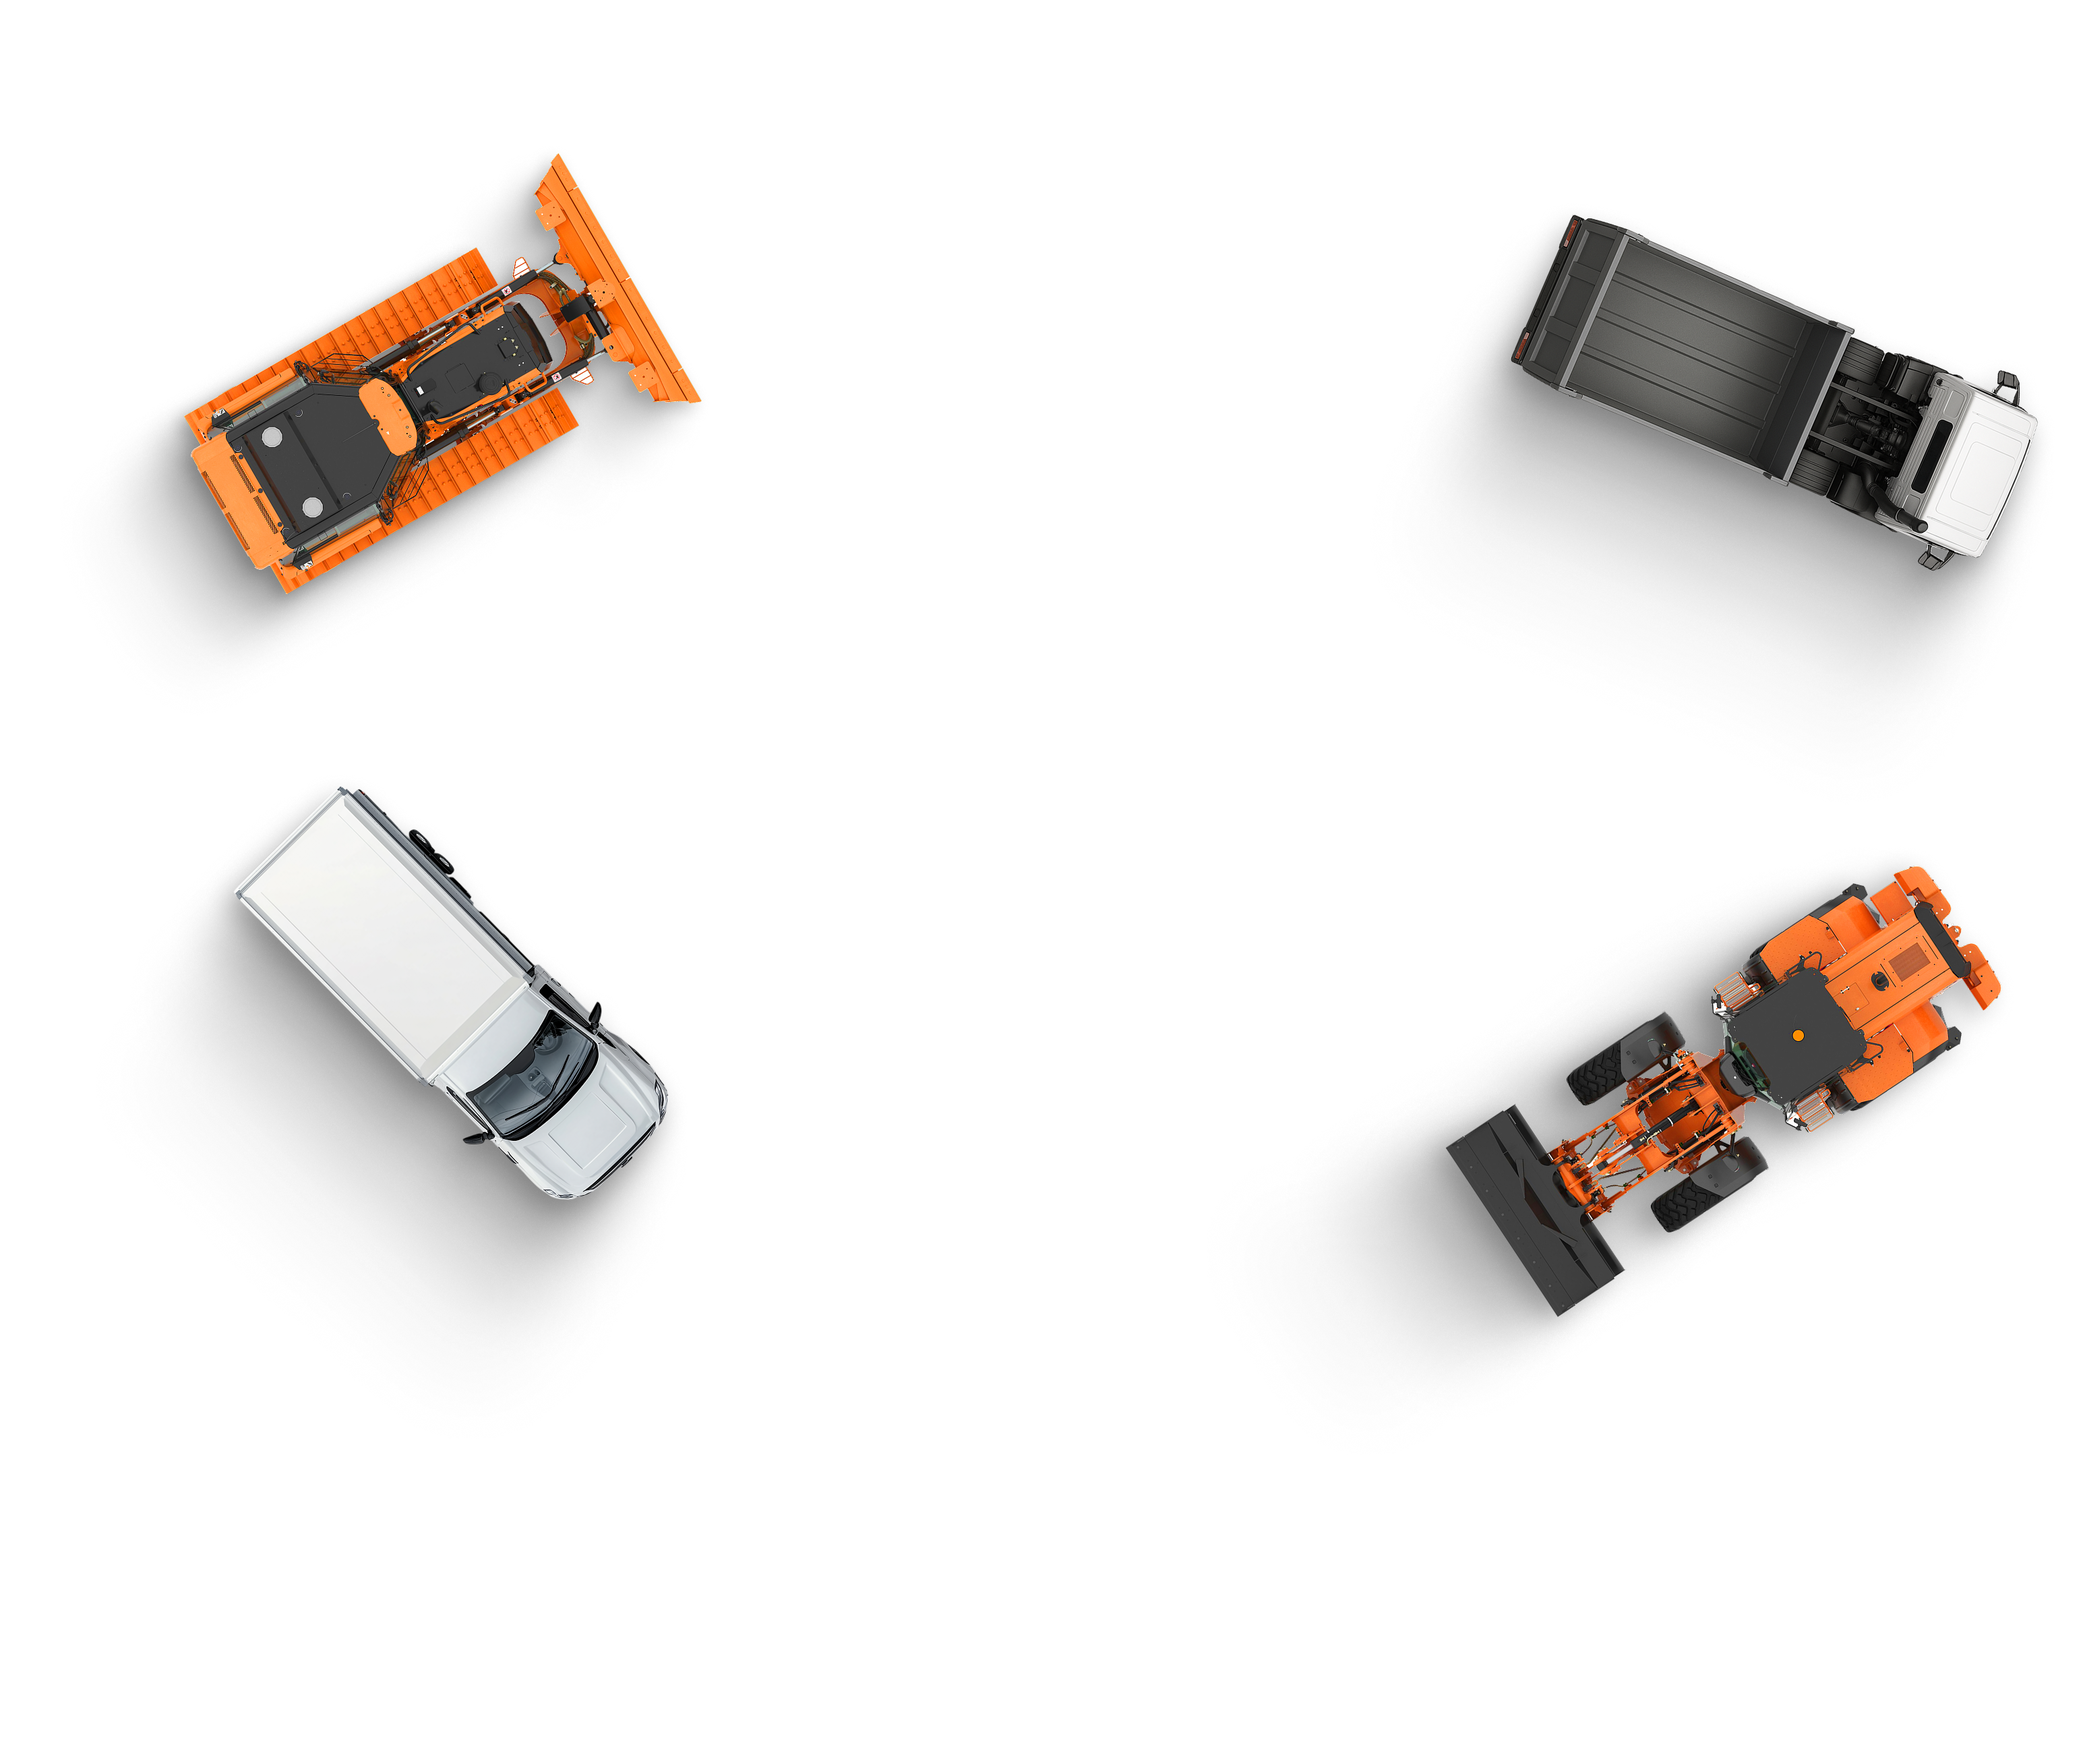
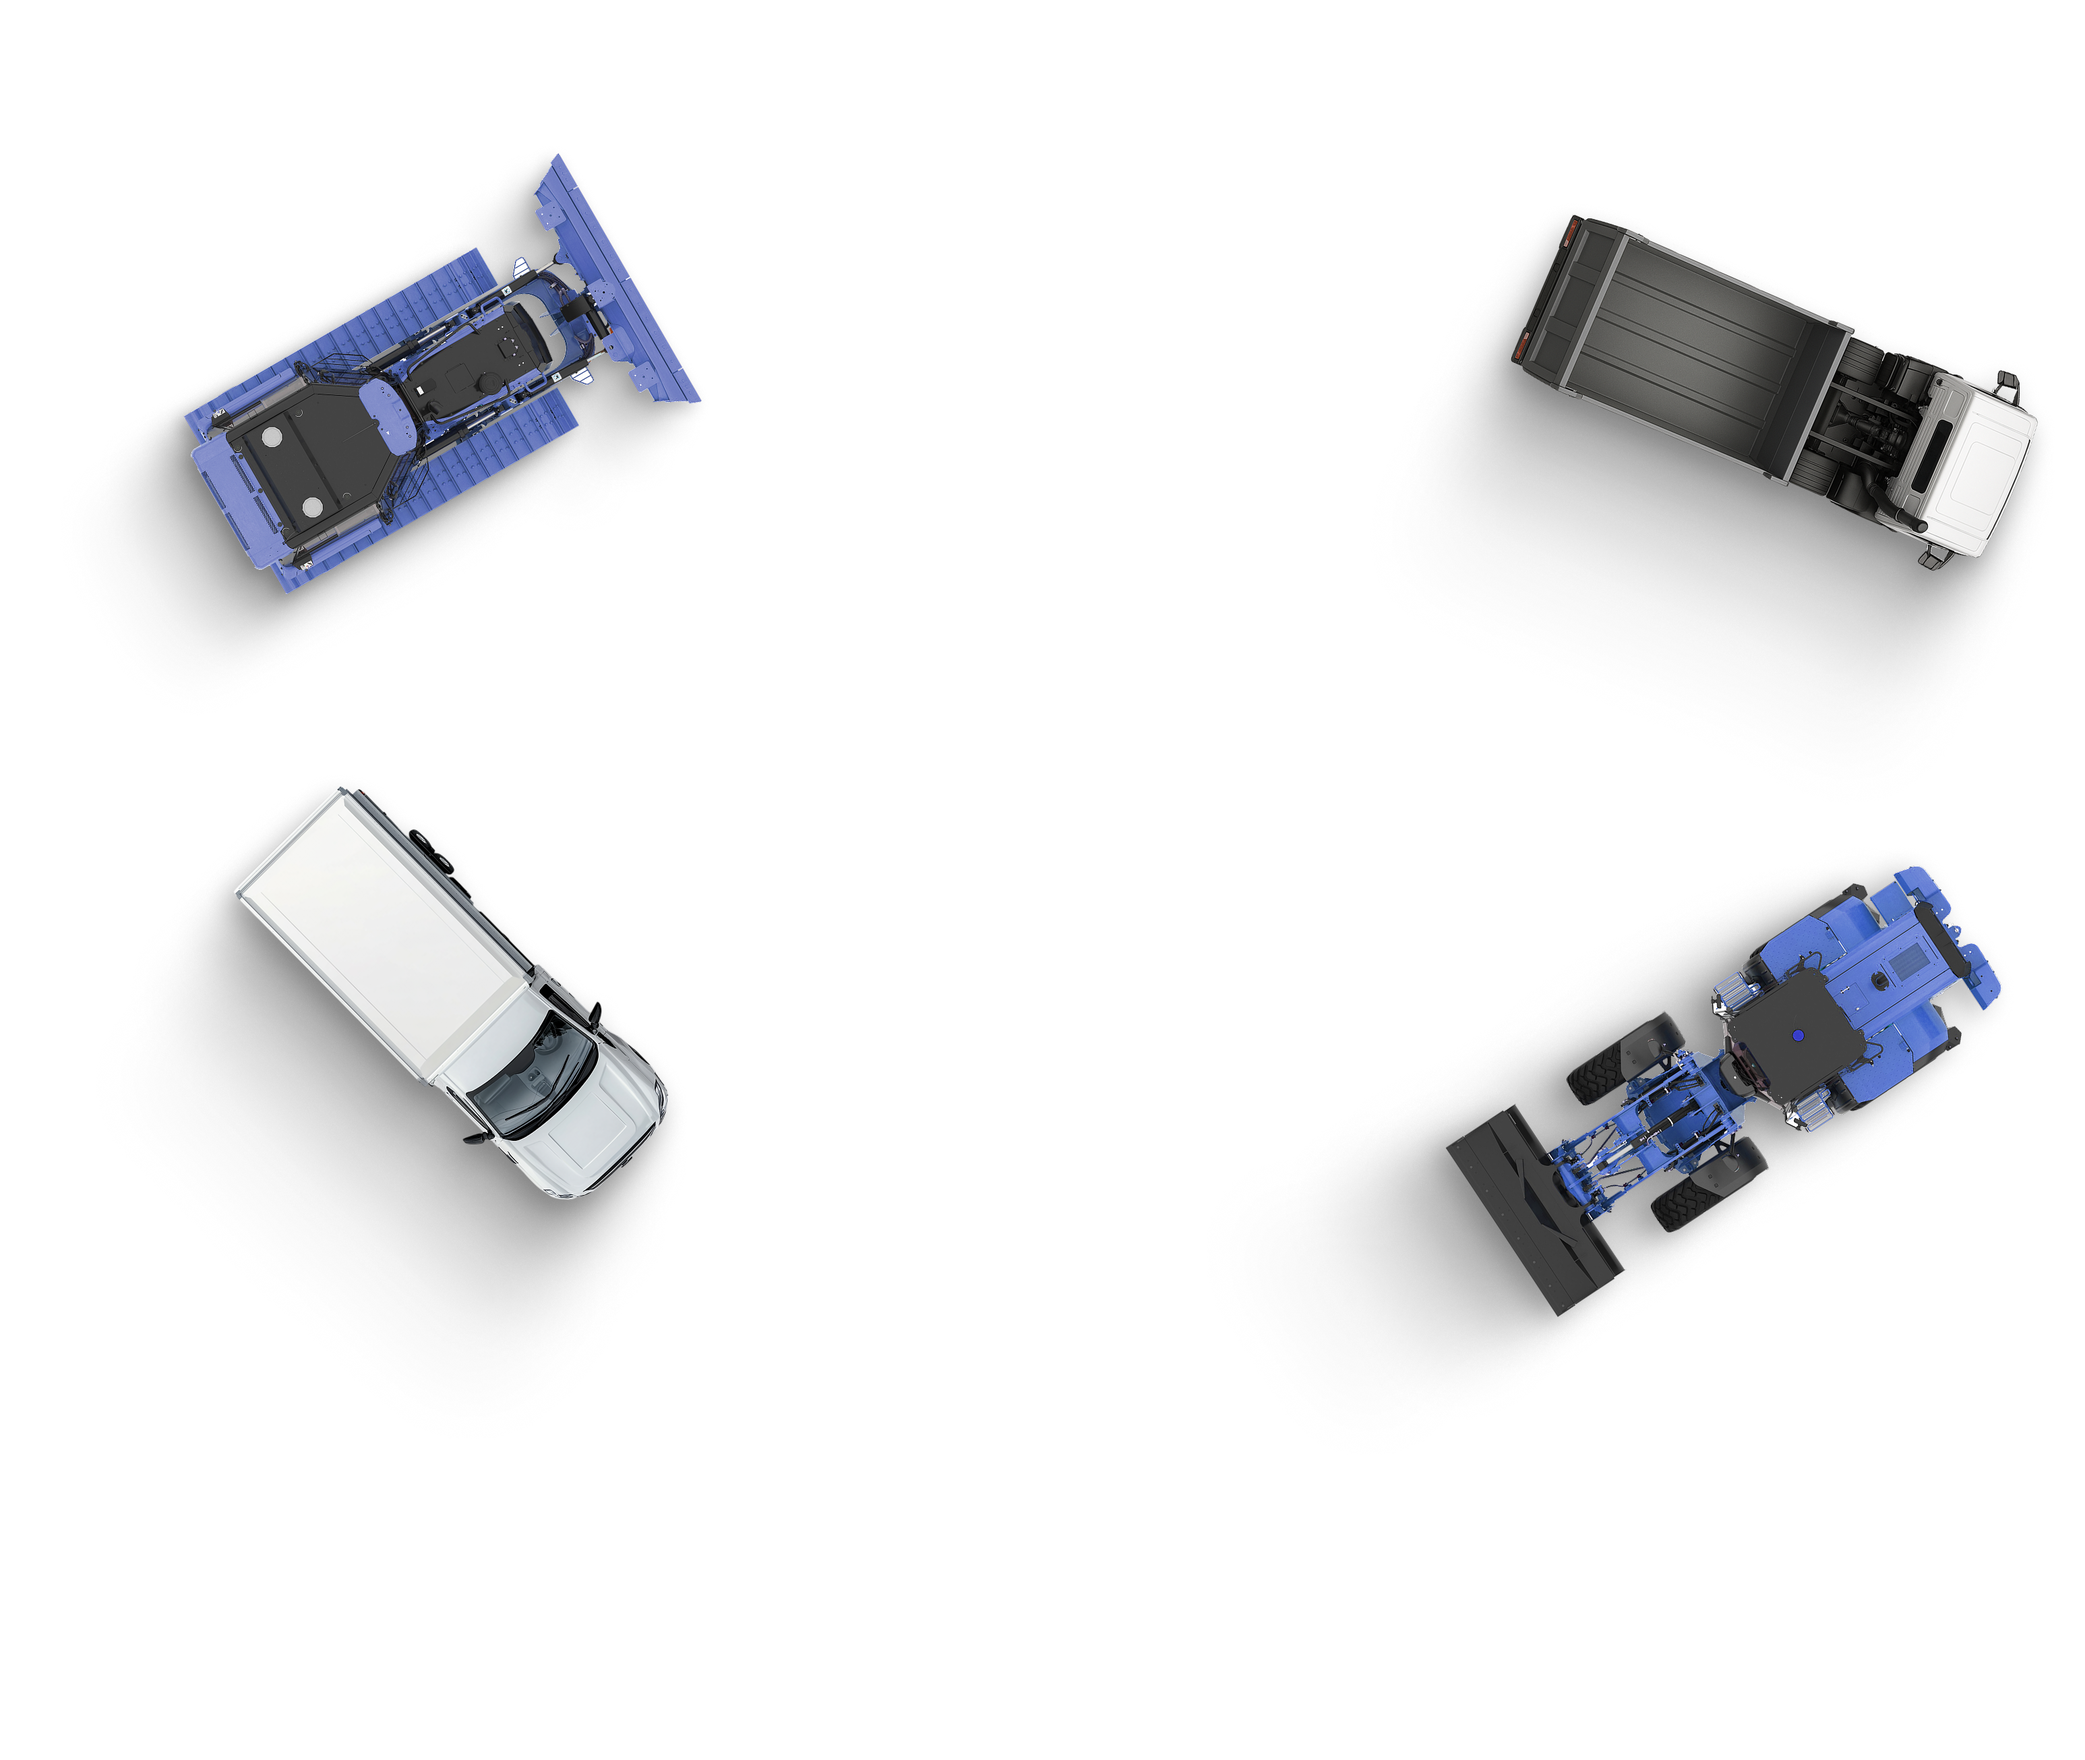
Возврат старых цветов

Changed region(s): [[0.0931, 0.0931, 0.3414, 0.3414], [0.838, 0.4966, 0.9622, 0.6517], [0.7449, 0.5586, 0.838, 0.7138]]

diff --git a/frontend/src/pages/Home/sections/Hero/Hero.module.css b/frontend/src/pages/Home/sections/Hero/Hero.module.css
@@ -12,7 +12,7 @@
 	display: flex;
 	flex-direction: column;
 	gap: 25px;
-	background: linear-gradient(#ff9a41, #ff7509, #ff7509);
+	background: linear-gradient(#a0e1de, #63a6e1, #63a6e1);
 	box-shadow: var(--shadow-card);
 	border-radius: 64px;
 	padding: 48px 32px 0;
@@ -43,7 +43,7 @@
 .action {
 	position: relative;
 	width: 100%;
-	background: #ff7509;
+	background: #64a6e1;
 	border-radius: 32px;
 	padding: 35px;
 	overflow: hidden;
@@ -51,7 +51,7 @@
 
 .action-button {
 	border-radius: 16px;
-	background: #ff7509;
+	background: #64a6e1;
 	padding: 20px;
 	display: flex;
 	align-items: center;
